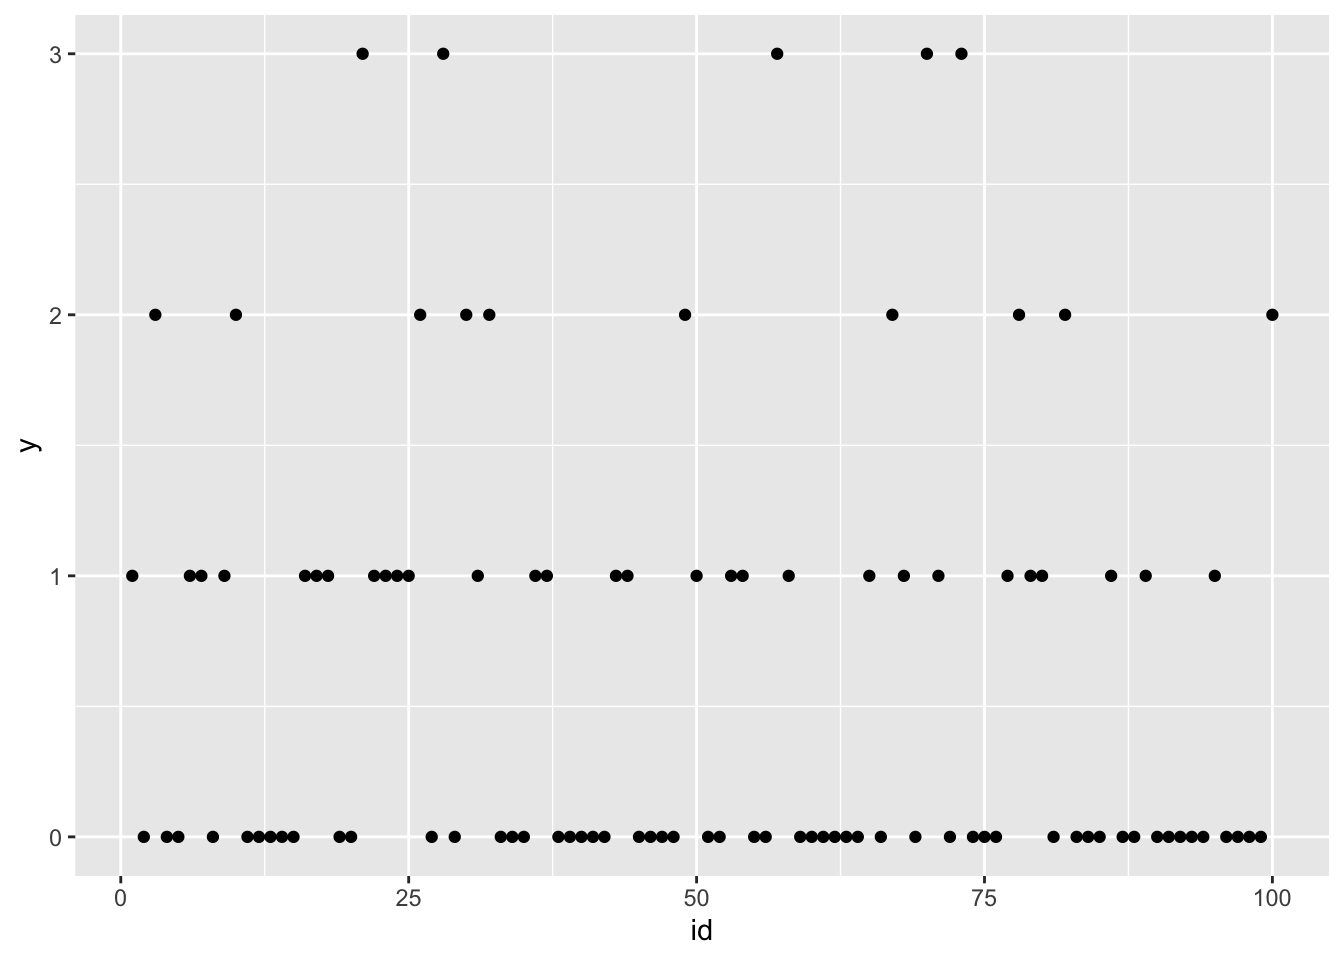
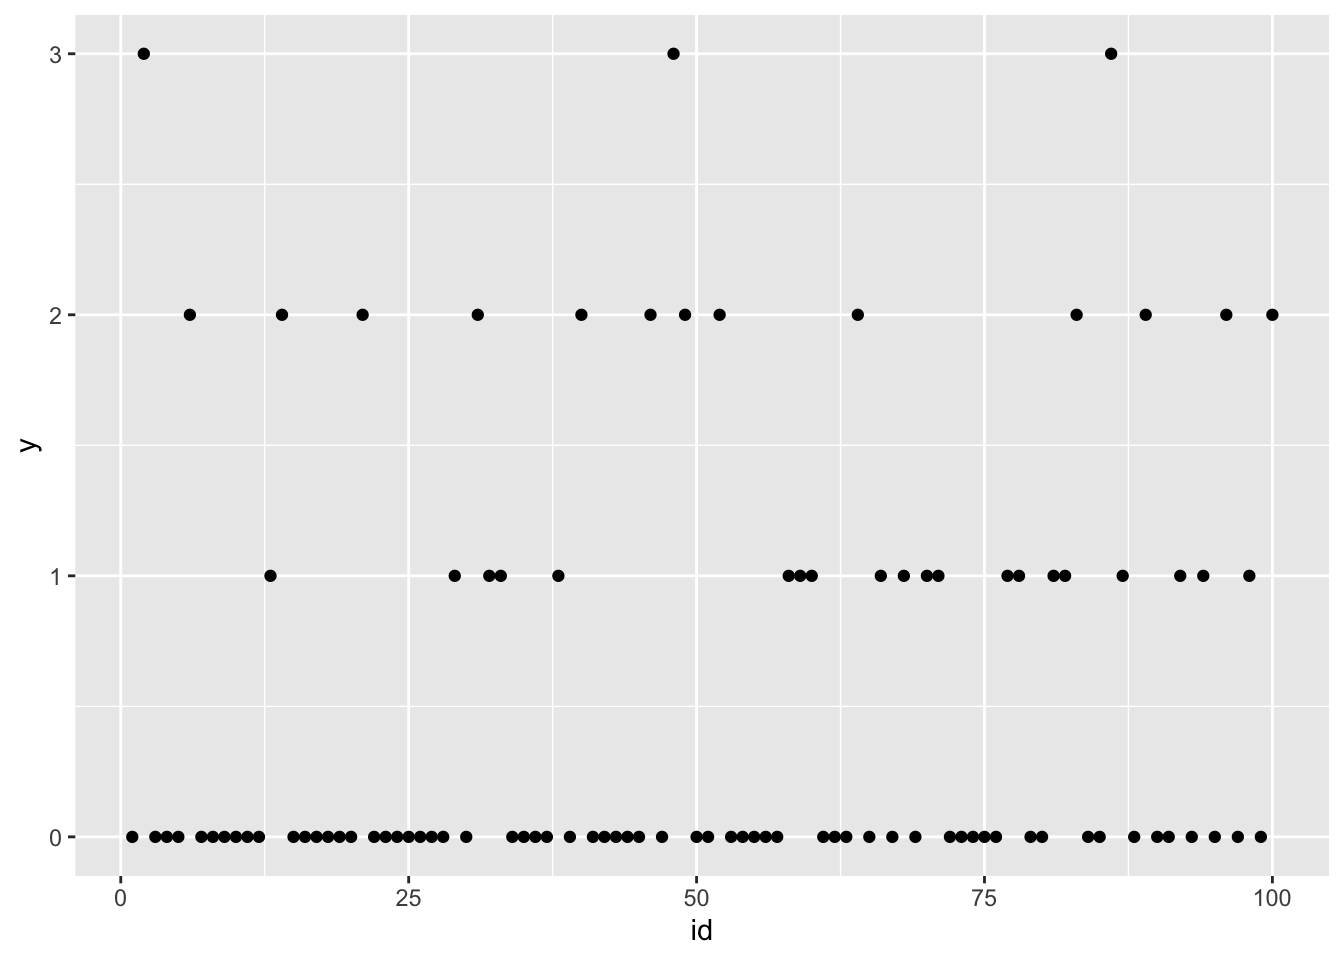
Fix error

diff --git a/docs/poisson.html b/docs/poisson.html
@@ -7,7 +7,7 @@
 <meta name="viewport" content="width=device-width, initial-scale=1.0, user-scalable=yes">
 
 <meta name="author" content="Adam Howes">
-<meta name="dcterms.date" content="2024-02-01">
+<meta name="dcterms.date" content="2024-02-05">
 
 <title>R-INLA Poisson GLM predictions</title>
 <style>
@@ -107,7 +107,7 @@ pre > code.sourceCode > span > a:first-child::before { text-decoration: underlin
     <div>
     <div class="quarto-title-meta-heading">Published</div>
     <div class="quarto-title-meta-contents">
-      <p class="date">February 1, 2024</p>
+      <p class="date">February 5, 2024</p>
     </div>
   </div>
   
@@ -165,13 +165,13 @@ Call:
    silent = silent, ", " inla.mode = inla.mode, safe = FALSE, debug = 
    debug, .parent.frame = .parent.frame)" ) 
 Time used:
-    Pre = 0.849, Running = 0.287, Post = 0.0135, Total = 1.15 
+    Pre = 0.688, Running = 0.273, Post = 0.014, Total = 0.975 
 Fixed effects:
               mean    sd 0.025quant 0.5quant 0.975quant   mode kld
-(Intercept) -1.321 0.303     -1.915   -1.321     -0.727 -1.321   0
-x            1.590 0.460      0.689    1.590      2.491  1.590   0
+(Intercept) -2.125 0.404     -2.916   -2.125     -1.333 -2.125   0
+x            2.591 0.578      1.458    2.591      3.724  2.591   0
 
-Marginal log-Likelihood:  -107.69 
+Marginal log-Likelihood:  -96.47 
  is computed 
 Posterior summaries for the linear predictor and the fitted values are computed
 (Posterior marginals needs also 'control.compute=list(return.marginals.predictor=TRUE)')</code></pre>
@@ -185,12 +185,12 @@ Posterior summaries for the linear predictor and the fitted values are computed
 <div class="sourceCode cell-code" id="cb6"><pre class="sourceCode r code-with-copy"><code class="sourceCode r"><span id="cb6-1"><a href="#cb6-1" aria-hidden="true" tabindex="-1"></a><span class="fu">head</span>(samples[[<span class="dv">1</span>]]<span class="sc">$</span>latent)</span></code><button title="Copy to Clipboard" class="code-copy-button"><i class="bi"></i></button></pre></div>
 <div class="cell-output cell-output-stdout">
 <pre><code>                  [,1]
-Predictor:1 -0.3539880
-Predictor:2 -0.5973706
-Predictor:3 -0.6220199
-Predictor:4 -1.0012524
-Predictor:5 -0.3442937
-Predictor:6 -0.1785032</code></pre>
+Predictor:1 -1.2790063
+Predictor:2  0.2343467
+Predictor:3 -1.4438101
+Predictor:4 -1.9094999
+Predictor:5 -0.9486992
+Predictor:6 -0.7121637</code></pre>
 </div>
 <div class="sourceCode cell-code" id="cb8"><pre class="sourceCode r code-with-copy"><code class="sourceCode r"><span id="cb8-1"><a href="#cb8-1" aria-hidden="true" tabindex="-1"></a>samples[[<span class="dv">1</span>]]<span class="sc">$</span>logdens</span></code><button title="Copy to Clipboard" class="code-copy-button"><i class="bi"></i></button></pre></div>
 <div class="cell-output cell-output-stdout">
@@ -198,35 +198,39 @@ Predictor:6 -0.1785032</code></pre>
 NULL
 
 $latent
-[1] 0.06988013
+[1] 0.3625828
 
 $joint
-[1] 0.06988013</code></pre>
+[1] 0.3625828</code></pre>
 </div>
 <div class="sourceCode cell-code" id="cb10"><pre class="sourceCode r code-with-copy"><code class="sourceCode r"><span id="cb10-1"><a href="#cb10-1" aria-hidden="true" tabindex="-1"></a>target <span class="ot">&lt;-</span> <span class="fu">paste0</span>(<span class="st">"Predictor:"</span>, <span class="dv">1</span><span class="sc">:</span>n)</span>
 <span id="cb10-2"><a href="#cb10-2" aria-hidden="true" tabindex="-1"></a>predictor_samples <span class="ot">&lt;-</span> <span class="fu">sapply</span>(samples, <span class="cf">function</span>(x) x<span class="sc">$</span>latent[target, <span class="dv">1</span>])</span>
 <span id="cb10-3"><a href="#cb10-3" aria-hidden="true" tabindex="-1"></a>lambda_samples <span class="ot">&lt;-</span> <span class="fu">exp</span>(predictor_samples)</span>
 <span id="cb10-4"><a href="#cb10-4" aria-hidden="true" tabindex="-1"></a></span>
 <span id="cb10-5"><a href="#cb10-5" aria-hidden="true" tabindex="-1"></a>samples_df <span class="ot">&lt;-</span> <span class="fu">data.frame</span>(lambda_samples) <span class="sc">|&gt;</span></span>
-<span id="cb10-6"><a href="#cb10-6" aria-hidden="true" tabindex="-1"></a>  tibble<span class="sc">::</span><span class="fu">rowid_to_column</span>(<span class="st">"sample"</span>) <span class="sc">|&gt;</span></span>
-<span id="cb10-7"><a href="#cb10-7" aria-hidden="true" tabindex="-1"></a>  tidyr<span class="sc">::</span><span class="fu">pivot_longer</span>(<span class="at">cols =</span> <span class="fu">starts_with</span>(<span class="st">"X"</span>), <span class="at">names_to =</span> <span class="st">"id"</span>, <span class="at">values_to =</span> <span class="st">"value"</span>) <span class="sc">|&gt;</span></span>
-<span id="cb10-8"><a href="#cb10-8" aria-hidden="true" tabindex="-1"></a>  dplyr<span class="sc">::</span><span class="fu">mutate</span>(<span class="at">id =</span> <span class="fu">as.numeric</span>(<span class="fu">sub</span>(<span class="st">"^X"</span>, <span class="st">""</span>, id)))</span>
+<span id="cb10-6"><a href="#cb10-6" aria-hidden="true" tabindex="-1"></a>  tibble<span class="sc">::</span><span class="fu">rowid_to_column</span>(<span class="st">"id"</span>) <span class="sc">|&gt;</span></span>
+<span id="cb10-7"><a href="#cb10-7" aria-hidden="true" tabindex="-1"></a>  tidyr<span class="sc">::</span><span class="fu">pivot_longer</span>(<span class="at">cols =</span> <span class="fu">starts_with</span>(<span class="st">"X"</span>), <span class="at">names_to =</span> <span class="st">"sample"</span>, <span class="at">values_to =</span> <span class="st">"value"</span>) <span class="sc">|&gt;</span></span>
+<span id="cb10-8"><a href="#cb10-8" aria-hidden="true" tabindex="-1"></a>  dplyr<span class="sc">::</span><span class="fu">mutate</span>(<span class="at">sample =</span> <span class="fu">as.numeric</span>(<span class="fu">sub</span>(<span class="st">"^X"</span>, <span class="st">""</span>, sample)))</span>
 <span id="cb10-9"><a href="#cb10-9" aria-hidden="true" tabindex="-1"></a></span>
 <span id="cb10-10"><a href="#cb10-10" aria-hidden="true" tabindex="-1"></a><span class="fu">head</span>(samples_df)</span></code><button title="Copy to Clipboard" class="code-copy-button"><i class="bi"></i></button></pre></div>
 <div class="cell-output cell-output-stdout">
 <pre><code># A tibble: 6 × 3
-  sample    id value
-   &lt;int&gt; &lt;dbl&gt; &lt;dbl&gt;
-1      1     1 0.702
-2      1     2 0.756
-3      1     3 1.05 
-4      1     4 0.767
-5      1     5 0.902
-6      1     6 0.834</code></pre>
+     id sample value
+  &lt;int&gt;  &lt;dbl&gt; &lt;dbl&gt;
+1     1      1 0.278
+2     1      2 0.498
+3     1      3 0.407
+4     1      4 0.381
+5     1      5 0.363
+6     1      6 0.396</code></pre>
 </div>
-<div class="sourceCode cell-code" id="cb12"><pre class="sourceCode r code-with-copy"><code class="sourceCode r"><span id="cb12-1"><a href="#cb12-1" aria-hidden="true" tabindex="-1"></a><span class="fu">ggplot</span>(samples_df, <span class="fu">aes</span>(<span class="at">x =</span> id, <span class="at">y =</span> value)) <span class="sc">+</span></span>
-<span id="cb12-2"><a href="#cb12-2" aria-hidden="true" tabindex="-1"></a>  <span class="fu">geom_point</span>() <span class="sc">+</span></span>
-<span id="cb12-3"><a href="#cb12-3" aria-hidden="true" tabindex="-1"></a>  <span class="fu">labs</span>(<span class="at">x =</span> <span class="st">"id"</span>, <span class="at">y =</span> <span class="st">"lambda"</span>)</span></code><button title="Copy to Clipboard" class="code-copy-button"><i class="bi"></i></button></pre></div>
+<div class="sourceCode cell-code" id="cb12"><pre class="sourceCode r code-with-copy"><code class="sourceCode r"><span id="cb12-1"><a href="#cb12-1" aria-hidden="true" tabindex="-1"></a><span class="fu">dim</span>(samples_df)</span></code><button title="Copy to Clipboard" class="code-copy-button"><i class="bi"></i></button></pre></div>
+<div class="cell-output cell-output-stdout">
+<pre><code>[1] 2500    3</code></pre>
+</div>
+<div class="sourceCode cell-code" id="cb14"><pre class="sourceCode r code-with-copy"><code class="sourceCode r"><span id="cb14-1"><a href="#cb14-1" aria-hidden="true" tabindex="-1"></a><span class="fu">ggplot</span>(samples_df, <span class="fu">aes</span>(<span class="at">x =</span> id, <span class="at">y =</span> value)) <span class="sc">+</span></span>
+<span id="cb14-2"><a href="#cb14-2" aria-hidden="true" tabindex="-1"></a>  <span class="fu">geom_point</span>() <span class="sc">+</span></span>
+<span id="cb14-3"><a href="#cb14-3" aria-hidden="true" tabindex="-1"></a>  <span class="fu">labs</span>(<span class="at">x =</span> <span class="st">"id"</span>, <span class="at">y =</span> <span class="st">"lambda"</span>)</span></code><button title="Copy to Clipboard" class="code-copy-button"><i class="bi"></i></button></pre></div>
 <div class="cell-output-display">
 <p><img src="poisson_files/figure-html/unnamed-chunk-1-2.png" class="img-fluid" width="672"></p>
 </div>
@@ -235,7 +239,7 @@ $joint
 <section id="computing-environment" class="level1" data-number="2">
 <h1 data-number="2"><span class="header-section-number">2</span> Computing environment</h1>
 <div class="cell">
-<div class="sourceCode cell-code" id="cb13"><pre class="sourceCode r code-with-copy"><code class="sourceCode r"><span id="cb13-1"><a href="#cb13-1" aria-hidden="true" tabindex="-1"></a><span class="fu">sessionInfo</span>()</span></code><button title="Copy to Clipboard" class="code-copy-button"><i class="bi"></i></button></pre></div>
+<div class="sourceCode cell-code" id="cb15"><pre class="sourceCode r code-with-copy"><code class="sourceCode r"><span id="cb15-1"><a href="#cb15-1" aria-hidden="true" tabindex="-1"></a><span class="fu">sessionInfo</span>()</span></code><button title="Copy to Clipboard" class="code-copy-button"><i class="bi"></i></button></pre></div>
 <div class="cell-output cell-output-stdout">
 <pre><code>R version 4.3.2 (2023-10-31)
 Platform: aarch64-apple-darwin20 (64-bit)
